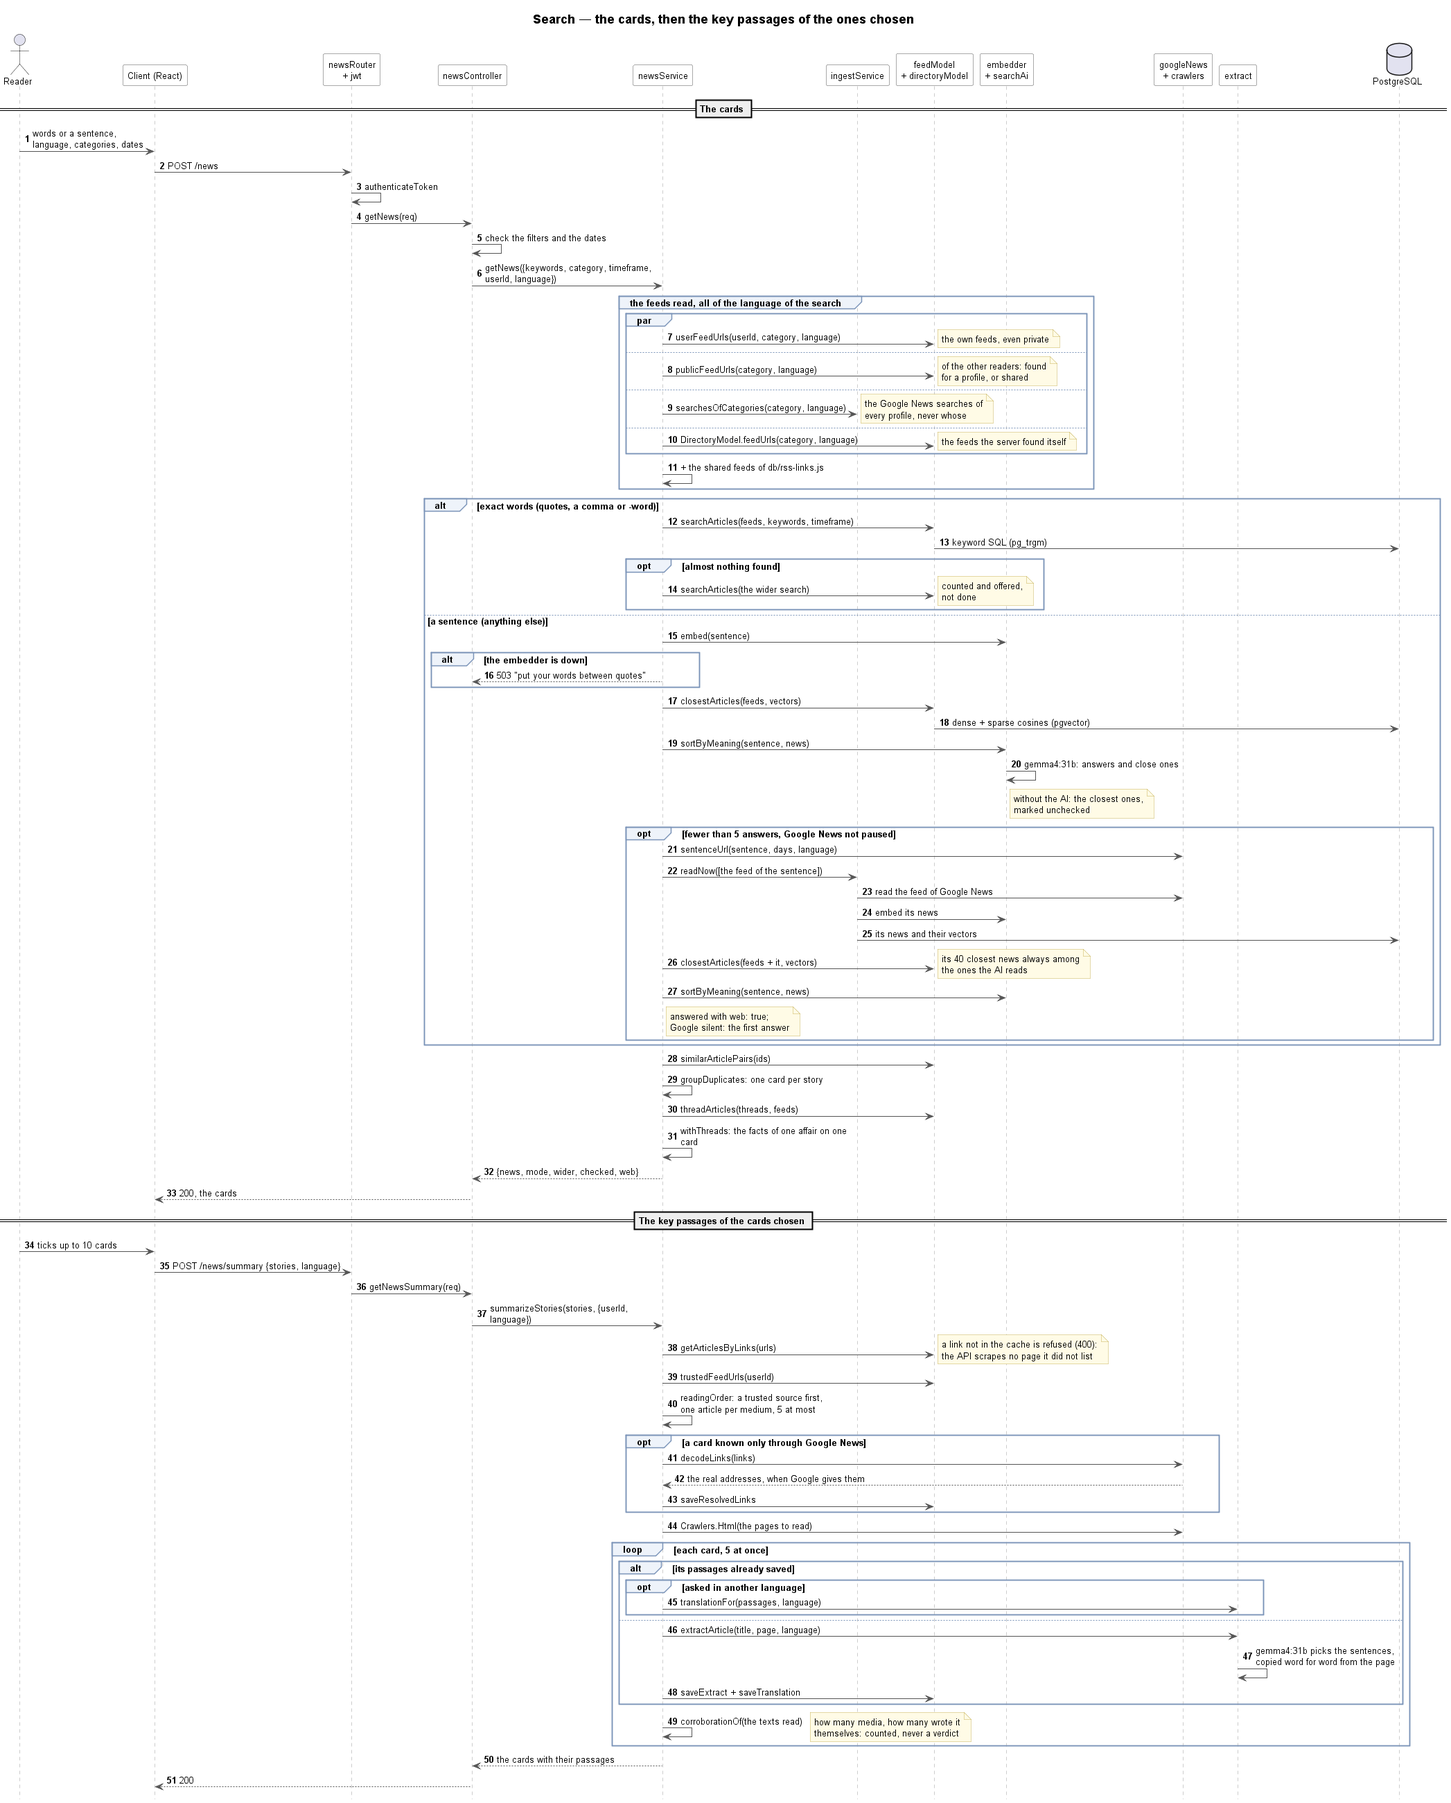
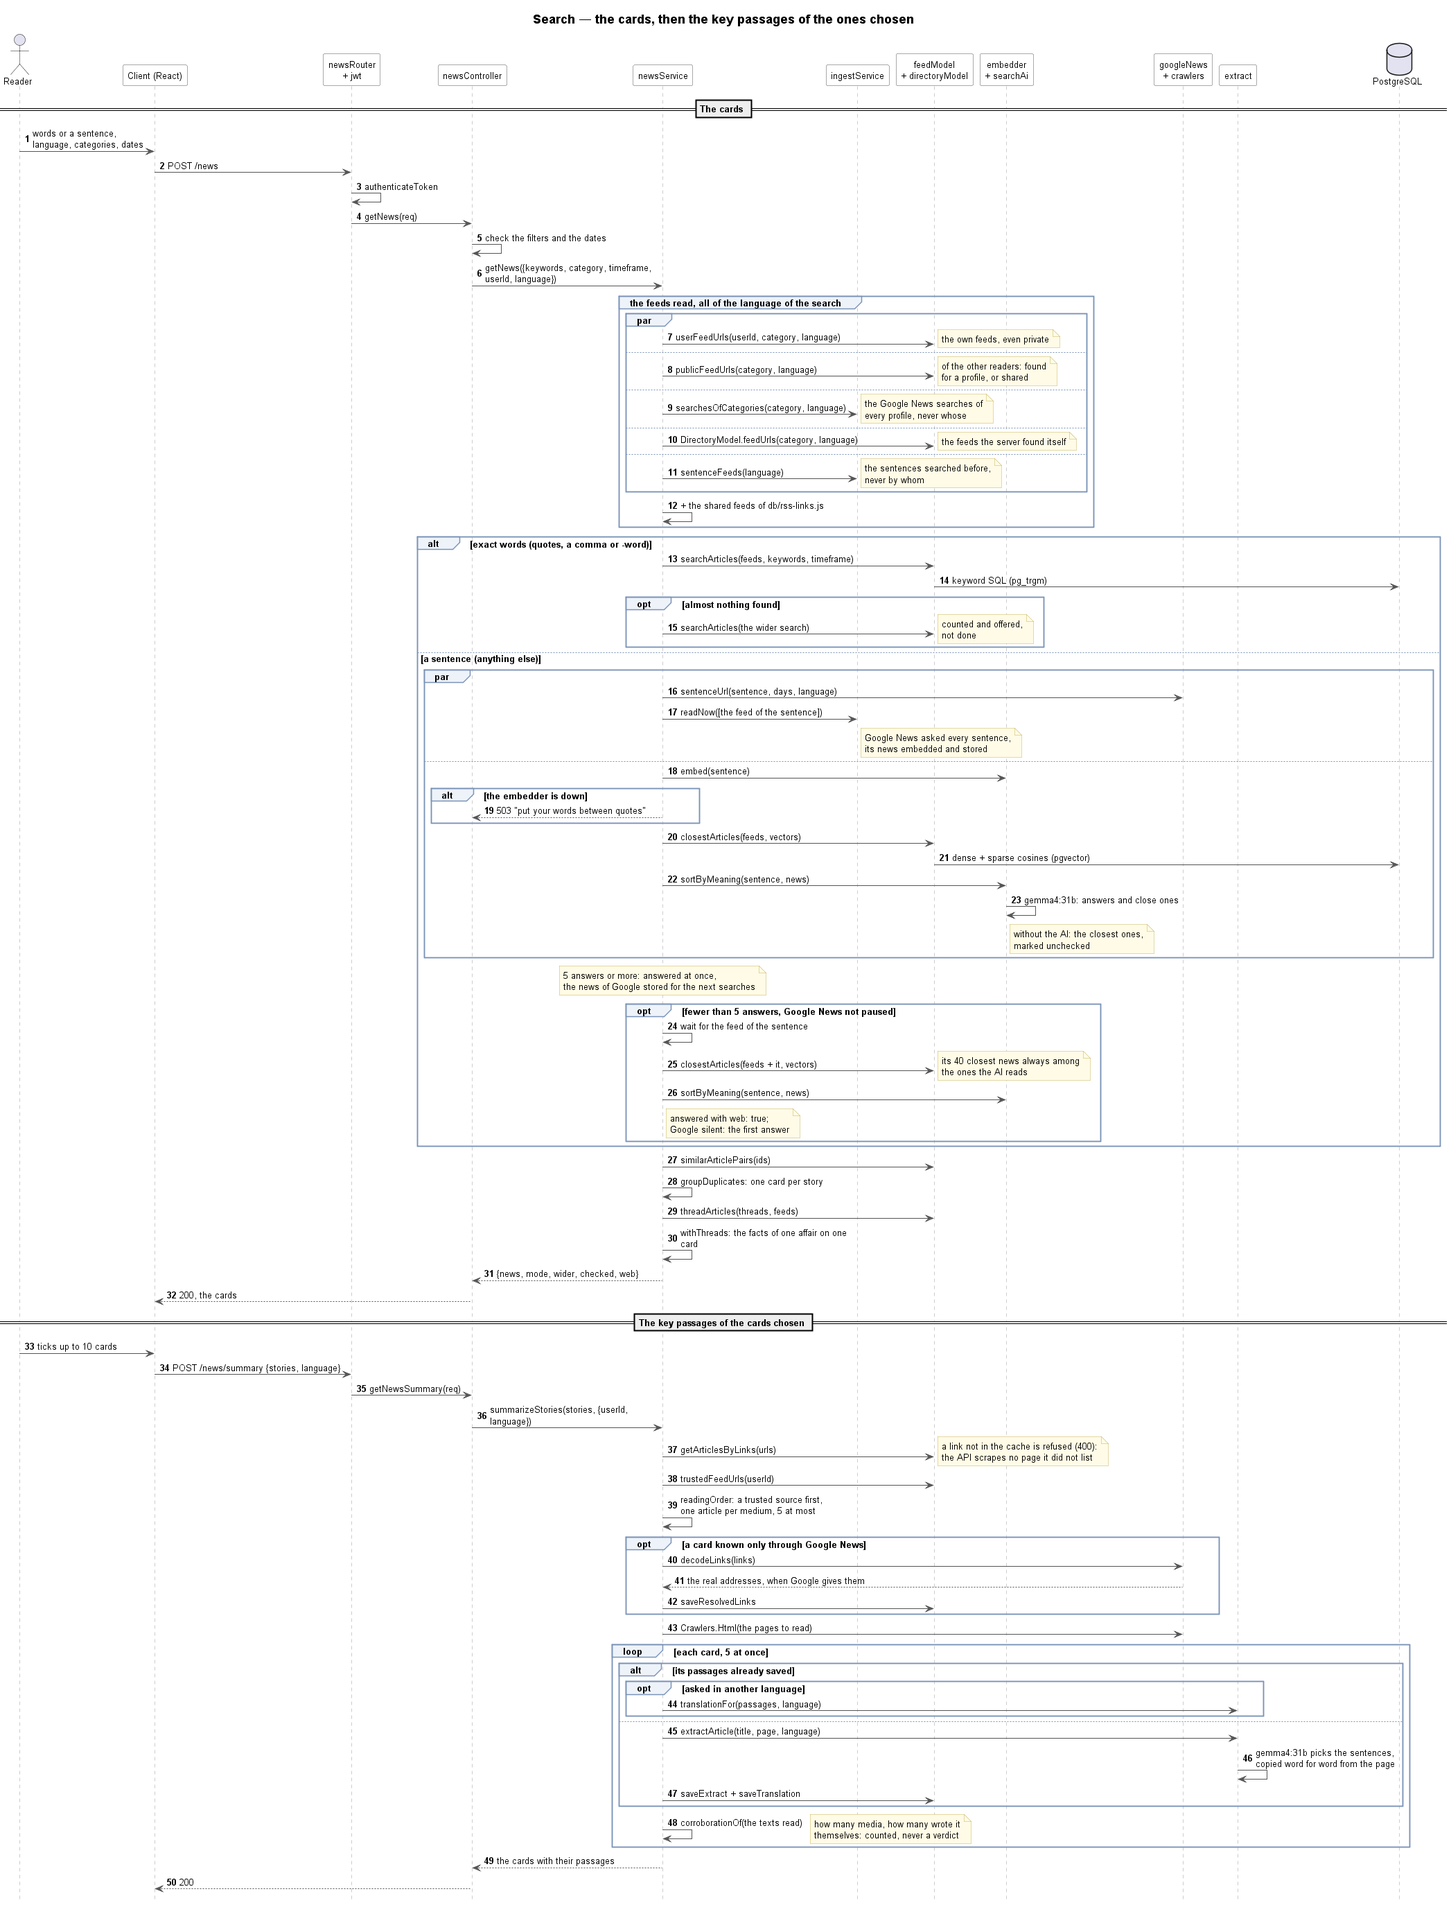
Ask Google News every sentence searched, and read its news after
Asked only when our feeds answered little, 40% of Google's first 30 news
were in none of our feeds, all from the searches it was not asked. Every
sentence is now asked to Google News while our feeds are searched: under
5 answers the search waits for it as before, otherwise it answers at once
and Google's news are stored for the searches after it, which read the
feeds of the sentences searched in their language during the retention.
On the same 15 sentences, 420 of Google's 421 first news are now stored.

diff --git a/services/news-service.js b/services/news-service.js
@@ -21,7 +21,7 @@ import {dateOf, mediumOfArticle, readingOrder, sourceOf} from "./utils/reading-o
 import {embed, toSparsevec, toVector} from "./utils/embedder.js";
 import {sortByMeaning} from "./utils/search-ai.js";
 import {decodeLinks, googleAvailable, isGoogleNewsUrl, sentenceUrl} from "./utils/google-news.js";
-import {GOOGLE_ENABLED, IngestService, searchesOfCategories} from "./ingest-service.js";
+import {GOOGLE_ENABLED, IngestService, searchesOfCategories, sentenceFeeds} from "./ingest-service.js";
 import {DirectoryModel} from "../models/directory-model.js";
 
 export const MAX_SELECTED_NEWS = 10;
@@ -199,10 +199,12 @@ const withThreads = async (cards, feedUrls) => {
     return result;
 };
 
-// A subject no profile follows has few news in our feeds: measured against Google News (bench/vs-google.mjs,
-// 15 searches of 7 days), measles gave 1 card to its ~15 stories and the Swiss chocolate 0 to its 4.
-// Under this many answers the sentence is asked to Google News too. It then knows the sentence, never
-// who searched it
+// Every sentence is asked to Google News too, while our feeds are searched. It then knows the sentence,
+// never who searched it. Measured against Google News (bench/vs-google.mjs, 15 searches of 7 days):
+// asked only when our feeds answered little, 40% of its first 30 news were in no feed of ours, all of
+// them from the searches it was not asked (measles had 1 card to its ~15 stories before). Under this
+// many answers the search waits for its news and searches again with them; above, it answers at once
+// and its news join the database for the next searches (see sentenceFeeds)
 const WEB_MIN_ANSWERS = 5;
 // Google News is asked as far back as the search reads, a month at most (the news are kept 30 days)
 const WEB_MAX_DAYS = 30;
@@ -237,23 +239,27 @@ export const NewsService = {
             // Google News of the profiles. All of the language of the search: a French search gave the
             // cards of si.com. A reader's search of "cartes Pokémon" found 1 news in the shared feeds
             // and their own, 10 with the searches of the profile of another reader (bench/pool-sources.mjs)
-            // The feeds of the directory too, found by the server itself (see DirectoryService)
-            const [own, others, searches, directory] = await Promise.all([
+            // The feeds of the directory too, found by the server itself (see DirectoryService), and the
+            // feeds of Google News of the sentences already searched (see sentenceFeeds)
+            const [own, others, searches, directory, sentences] = await Promise.all([
                 userId ? FeedModel.userFeedUrls(userId, category, language) : [],
                 FeedModel.publicFeedUrls(category, language),
                 searchesOfCategories(category, language),
                 DirectoryModel.feedUrls(category, language),
+                sentenceFeeds(language),
             ]);
-            const newsLinks = [...new Set([...Links.getCategoriesLinks(category, language), ...own, ...others, ...searches, ...directory])];
+            const newsLinks = [...new Set([...Links.getCategoriesLinks(category, language), ...own, ...others, ...searches, ...directory, ...sentences])];
 
             if (!Filter.hasOperators(keywords)) {
                 const query = keywords.join(' ').trim();
+                // Google News is asked the sentence at once, while our feeds are searched
+                const asked = webSearch(query, timeframe, language).catch(() => null);
                 const found = await NewsService.searchByMeaning({query, feedUrls: newsLinks, timeframe});
+                // enough answers: its news are still read, for the next searches, nobody waits for them
                 if (found.news.filter(card => card.match !== 'related').length >= WEB_MIN_ANSWERS) return found;
 
-                // few answers: the subject is one no feed of ours follows. Google News is asked the
-                // sentence, once, and its news are searched with the others
-                const web = await webSearch(query, timeframe, language);
+                // few answers: the subject is one no feed of ours follows, its news are searched with the others
+                const web = await asked;
                 return web ? {...await NewsService.searchByMeaning({query, feedUrls: [...newsLinks, web], timeframe, googleFeed: web}), web: true} : found;
             }
 

diff --git a/tests/search/test.search-web.js b/tests/search/test.search-web.js
@@ -27,6 +27,7 @@ jest.unstable_mockModule('../../services/utils/embedder.js', () => ({
 jest.unstable_mockModule('../../services/utils/search-ai.js', () => ({sortByMeaning: jest.fn()}));
 jest.unstable_mockModule('../../services/ingest-service.js', () => ({
     searchesOfCategories: jest.fn(async () => []),
+    sentenceFeeds: jest.fn(async () => []),
     GOOGLE_ENABLED: jest.fn(() => true),
     IngestService: {readNow: jest.fn(async () => 3)},
 }));
@@ -37,7 +38,7 @@ jest.unstable_mockModule('../../models/directory-model.js', () => ({
 const {NewsService} = await import('../../services/news-service.js');
 const {FeedModel} = await import('../../models/feed-model.js');
 const {sortByMeaning} = await import('../../services/utils/search-ai.js');
-const {GOOGLE_ENABLED, IngestService} = await import('../../services/ingest-service.js');
+const {GOOGLE_ENABLED, IngestService, sentenceFeeds} = await import('../../services/ingest-service.js');
 const {DirectoryModel} = await import('../../models/directory-model.js');
 
 const article = (id) => ({
@@ -83,15 +84,31 @@ describe('a sentence our feeds answer little', () => {
         expect(second.byGiven).toBeGreaterThan(0);
     });
 
-    it('should not ask it when the feeds answer enough', async () => {
+    it('should ask it even when the feeds answer enough, for the next searches, without waiting for it', async () => {
+        let read;
+        IngestService.readNow.mockImplementationOnce(() => new Promise(resolve => { read = resolve; }));
         FeedModel.closestArticles.mockResolvedValueOnce([1, 2, 3, 4, 5].map(article));
         sortByMeaning.mockImplementationOnce(answering(5));
 
         const result = await search();
 
-        expect(IngestService.readNow).not.toHaveBeenCalled();
+        expect(IngestService.readNow).toHaveBeenCalledTimes(1);
+        expect(FeedModel.closestArticles).toHaveBeenCalledTimes(1);
         expect(result.web).toBeUndefined();
         expect(result.news).toHaveLength(5);
+        read(3);
+    });
+
+    it('should search the sentences searched before with the other feeds', async () => {
+        const before = 'https://news.google.com/rss/search?q=measles+when%3A7d&hl=en-US&gl=US&ceid=US:en';
+        sentenceFeeds.mockResolvedValueOnce([before]);
+        FeedModel.closestArticles.mockResolvedValueOnce([1, 2, 3, 4, 5].map(article));
+        sortByMeaning.mockImplementationOnce(answering(5));
+
+        await search();
+
+        expect(sentenceFeeds).toHaveBeenCalledWith('en');
+        expect(feedsRead(0)).toContain(before);
     });
 
     it('should give the answer of the feeds when Google News can not be asked', async () => {

diff --git a/tests/search/test.search-pool.js b/tests/search/test.search-pool.js
@@ -3,7 +3,7 @@
 //  Date: 30.09.2026
 //  File: test.search-pool.js
 //  Description: The searches of Google News of the profiles a search reads: of its language, and of
-//               the interests of its categories
+//               the interests of its categories. And the sentences searched before, of its language
 //
 
 import {describe, expect, it, jest} from '@jest/globals';
@@ -18,12 +18,14 @@ jest.unstable_mockModule('../../models/profile-model.js', () => ({
         ]),
     },
 }));
-jest.unstable_mockModule('../../models/feed-model.js', () => ({FeedModel: {}}));
+jest.unstable_mockModule('../../models/feed-model.js', () => ({FeedModel: {googleSearchFeeds: jest.fn()}}));
 jest.unstable_mockModule('../../models/story-model.js', () => ({StoryModel: {}}));
 jest.unstable_mockModule('../../models/directory-model.js', () => ({DirectoryModel: {}}));
 jest.unstable_mockModule('../../services/directory-service.js', () => ({DirectoryService: {}}));
 
-const {searchesOfCategories} = await import('../../services/ingest-service.js');
+const {searchesOfCategories, sentenceFeeds} = await import('../../services/ingest-service.js');
+const {FeedModel} = await import('../../models/feed-model.js');
+const {sentenceUrl} = await import('../../services/utils/google-news.js');
 
 describe('searchesOfCategories', () => {
     it('should give the searches in the language asked, of the interests of these categories or of none', async () => {
@@ -34,5 +36,18 @@ describe('searchesOfCategories', () => {
         expect(queries[0]).toMatch(/^cartes Pokémon/);
         expect(queries[1]).toMatch(/^voile/);
         expect(urls.every(url => url.includes('hl=fr'))).toBe(true);
+    });
+});
+
+describe('sentenceFeeds', () => {
+    it('should give the sentences searched in the language asked, not the searches of the profiles', async () => {
+        const [profile] = await searchesOfCategories(['technology'], 'fr');
+        const french = sentenceUrl("les prix de l'immobilier en Suisse", {days: 7, language: 'fr'});
+        const english = sentenceUrl('measles outbreaks', {days: 7, language: 'en'});
+        FeedModel.googleSearchFeeds.mockResolvedValueOnce([profile, french, english]);
+
+        expect(await sentenceFeeds('fr')).toEqual([french]);
+        const [[since]] = FeedModel.googleSearchFeeds.mock.calls;
+        expect(Date.now() - since.getTime()).toBeGreaterThan(29 * 24 * 3600e3);
     });
 });

diff --git a/services/ingest-service.js b/services/ingest-service.js
@@ -159,6 +159,20 @@ export const searchesOfCategories = async (categories, language) => GOOGLE_ENABL
         .flatMap(({searches, languages}) => interestSearchUrls(searches, languages.filter(read => read === language))))]
     : [];
 
+// The feeds of Google News of the sentences searched in this language, during the retention: Google
+// News is asked every sentence (see NewsService.getNews), and its news are read by every search after,
+// as the searches of the profiles, never saying who searched. The searches of the profiles are left
+// out: searchesOfCategories gives them, of the categories asked
+export const sentenceFeeds = async (language) => {
+    if (!GOOGLE_ENABLED()) return [];
+    const [read, profiles] = await Promise.all([
+        FeedModel.googleSearchFeeds(new Date(Date.now() - RETENTION_DAYS * 24 * 3600e3)),
+        ProfileModel.searchesOf(),
+    ]);
+    const ofProfiles = new Set(profiles.flatMap(({searches, languages}) => interestSearchUrls(searches, languages)));
+    return read.filter(url => !ofProfiles.has(url) && languageOfSearch(url) === language);
+};
+
 // the searches of Google News of one reader, read with the sources just found for them
 export const searchesOfUser = async (userId) => GOOGLE_ENABLED()
     ? [...new Set((await ProfileModel.searchesOf(userId)).flatMap(({searches, languages}) => interestSearchUrls(searches, languages)))]

diff --git a/models/feed-model.js b/models/feed-model.js
@@ -342,6 +342,10 @@ export const FeedModel = {
         select: { url: true },
         distinct: ['url'],
     })).map(feed => feed.url),
+    // the searches of Google News read since this date (of the profiles, and the sentences searched)
+    googleSearchFeeds: async (since) => (await prisma.$queryRawUnsafe(`
+        SELECT url FROM feeds WHERE url LIKE 'https://news.google.com/rss/search?%' AND last_fetched_at >= $1::timestamptz`,
+        since)).map(row => row.url),
     // the feeds of every user, read by the worker (see IngestService.run)
     allUserFeedUrls: async () => {
         const feeds = await prisma.user_feeds.findMany({select: {url: true}, distinct: ['url']});

diff --git a/tests/search/test.story-cards.js b/tests/search/test.story-cards.js
@@ -28,6 +28,7 @@ jest.unstable_mockModule('../../services/utils/embedder.js', () => ({
 jest.unstable_mockModule('../../services/utils/search-ai.js', () => ({sortByMeaning: jest.fn()}));
 jest.unstable_mockModule('../../services/ingest-service.js', () => ({
     searchesOfCategories: jest.fn(async () => []),
+    sentenceFeeds: jest.fn(async () => []),
     GOOGLE_ENABLED: () => false,
     IngestService: {readNow: jest.fn()},
 }));

diff --git a/tests/search/test.search-google.js b/tests/search/test.search-google.js
@@ -43,6 +43,7 @@ jest.unstable_mockModule('../../services/utils/google-news.js', () => ({
 }));
 jest.unstable_mockModule('../../services/ingest-service.js', () => ({
     searchesOfCategories: jest.fn(async () => []),
+    sentenceFeeds: jest.fn(async () => []),
     GOOGLE_ENABLED: () => false,
     IngestService: {readNow: jest.fn()},
 }));

diff --git a/README.md b/README.md
@@ -219,7 +219,7 @@ Optional variables in `.env`:
 | `FEED_RETENTION_DAYS` | 30 | Articles older than this are deleted |
 | `RSS_BRIDGE_URL` | _(none)_ | Address of the RSS-Bridge, step 4 of the sources of a user below. Empty: the sites without a feed are simply out of reach |
 | `GOOGLE_NEWS` | on | `off` stops every request to Google News: the searches of the interests, and the sentence a search asks when our sources answer little |
-| `SEARCH_GOOGLE_NEWS` | on | `off`: a search our sources answer little is not asked to Google News (the searches of the interests go on) |
+| `SEARCH_GOOGLE_NEWS` | on | `off`: the sentences searched are not asked to Google News (the searches of the interests go on) |
 | `GOOGLE_NEWS_EVERY_MINUTES` | 60 | each search of Google News is read again after this |
 | `GOOGLE_NEWS_INTERVAL_MS` | 1000 | two requests to Google never closer than this |
 | `DIRECTORY` | on | `off` stops the directory from looking at more media after each run (the feeds it has are still read) |
@@ -284,18 +284,25 @@ Optional variables in `.env`:
      Without the AI, the 30 closest are given, marked as not checked. Without the embedder, the
      sentence cannot be searched: the reader is told to put their words between quotes.
 
-     When fewer than 5 news answer, the subject is one our sources do not follow: Google News is then
-     asked the sentence itself, over the days searched (30 at most), its news are read and embedded at
-     once (`IngestService.readNow`), and the sentence is searched again with them; the reader is told.
-     The 40 closest news of that Google feed are read by the AI whatever the others: among every
-     feed, the vectors ranked "Claude Sonnet 5.5" 151st for "new AI models for programming" and the
-     AI, reading the first 110, never saw it (4 cards, 12 with them). Google learns the sentence, never who searched it. It is not asked while it is turned off or
-     paused after a block, and a search it does not answer keeps the answer of our sources.
-     Measured on the 15 sentences of `bench/vs-google.mjs` (30.09.2026): Google was asked for 7 of them.
-     "measles outbreaks" went from 1 answer to 10, with 32 close ones all on measles; "the Swiss
-     chocolate industry" from 0 to 4 (Lindt cutting its forecast); the crew of Artemis II from 4 cards to
-     8. A subject Google has nothing on either stays with little ("les vendanges en Valais"). Such a
-     search takes 5 to 11 seconds instead of 2 to 5. `SEARCH_GOOGLE_NEWS=off` turns it off.
+     Google News is asked every sentence too, over the days searched (30 at most), while our sources
+     are searched; its news are read and embedded at once (`IngestService.readNow`). Google learns the
+     sentence, never who searched it. It is not asked while it is turned off or paused after a block,
+     and a search it does not answer keeps the answer of our sources.
+     - When fewer than 5 news answer, the subject is one our sources do not follow: the search waits
+       for Google and searches again with its news; the reader is told. The 40 closest news of that
+       Google feed are read by the AI whatever the others: among every feed, the vectors ranked
+       "Claude Sonnet 5.5" 151st for "new AI models for programming" and the AI, reading the first 110,
+       never saw it (4 cards, 12 with them). Measured on the 15 sentences of `bench/vs-google.mjs`
+       (30.09.2026): "measles outbreaks" went from 1 answer to 10, with 32 close ones all on measles;
+       "the Swiss chocolate industry" from 0 to 11. A subject Google has nothing on either stays with
+       little ("les vendanges en Valais"). Such a search takes 5 to 11 seconds instead of 2 to 5.
+     - Otherwise the search answers at once, and Google's news join the database for the searches after
+       it: every search reads the feeds of Google News of the sentences searched in its language during
+       the retention, as it reads the searches of the profiles. Asked only for the searches answering
+       little, 40% of Google's first 30 news were in none of our feeds (01.10.2026), all of them from
+       the 8 searches it was not asked.
+
+     `SEARCH_GOOGLE_NEWS=off` turns both off.
    - **Keywords with an operator** (a quote, a comma or a `-word`) are searched as written, in SQL, with
      the excluded keywords and the timeframe. They work like on Google: commas separate alternatives
      (OR), the words of an alternative must all be found (AND), `"quoted text"` is an exact word or
